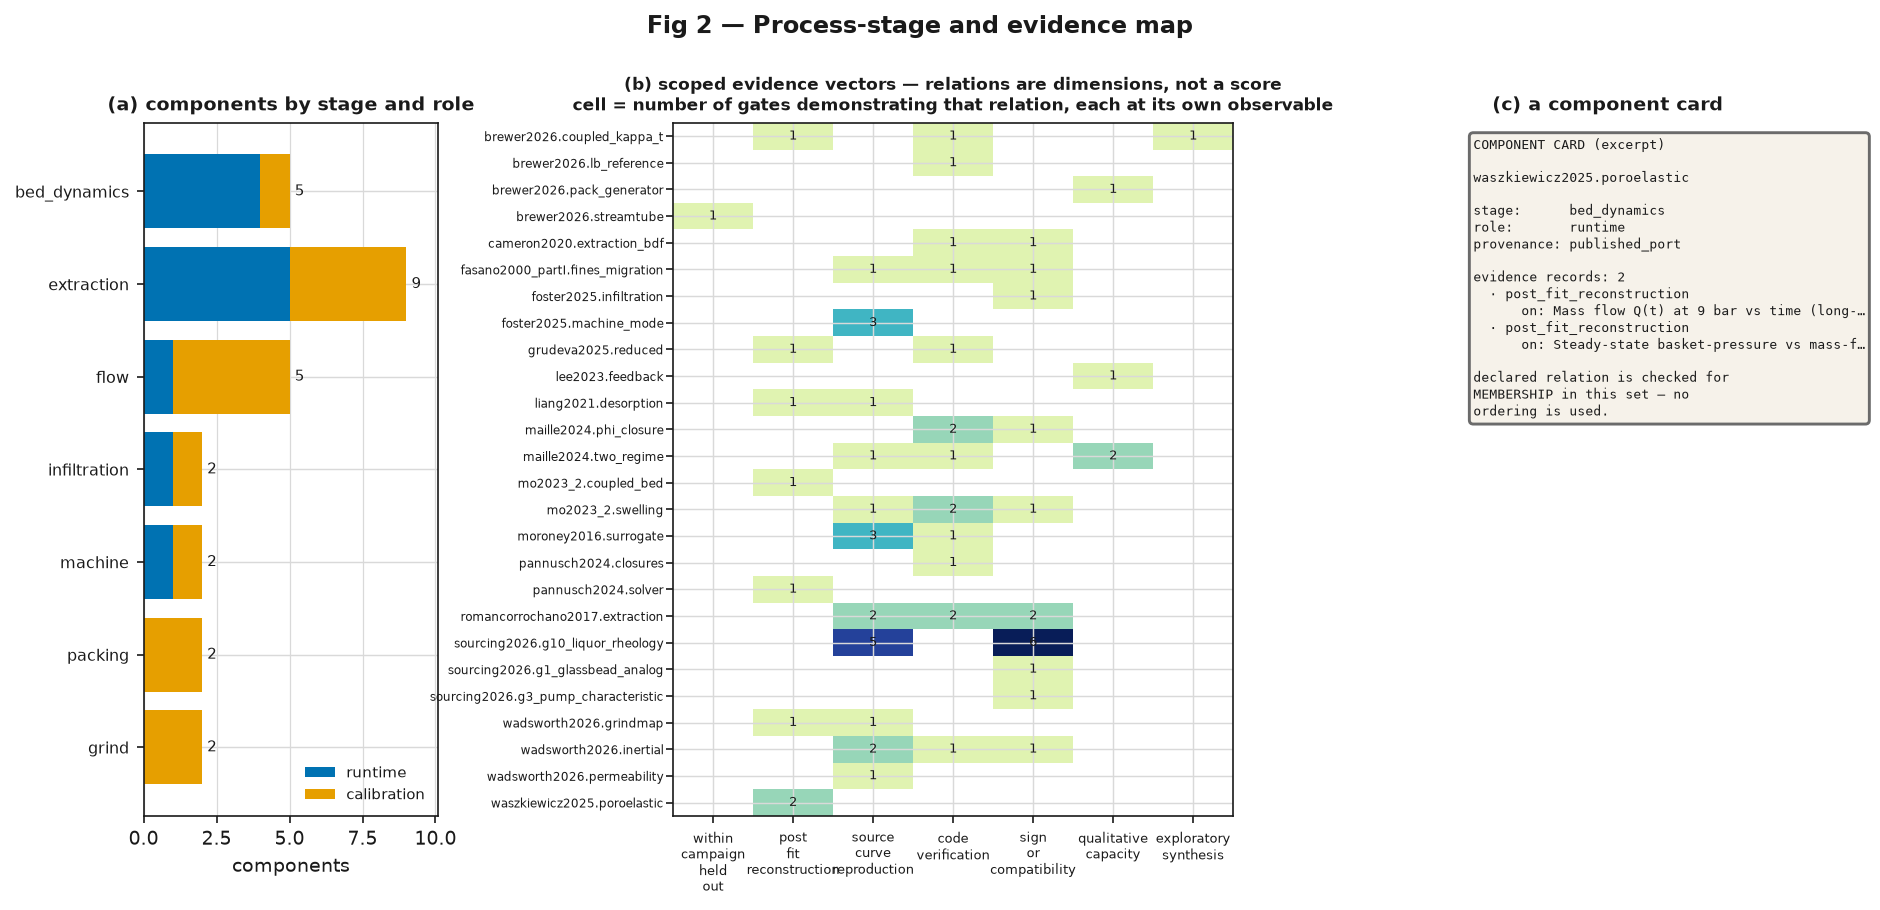
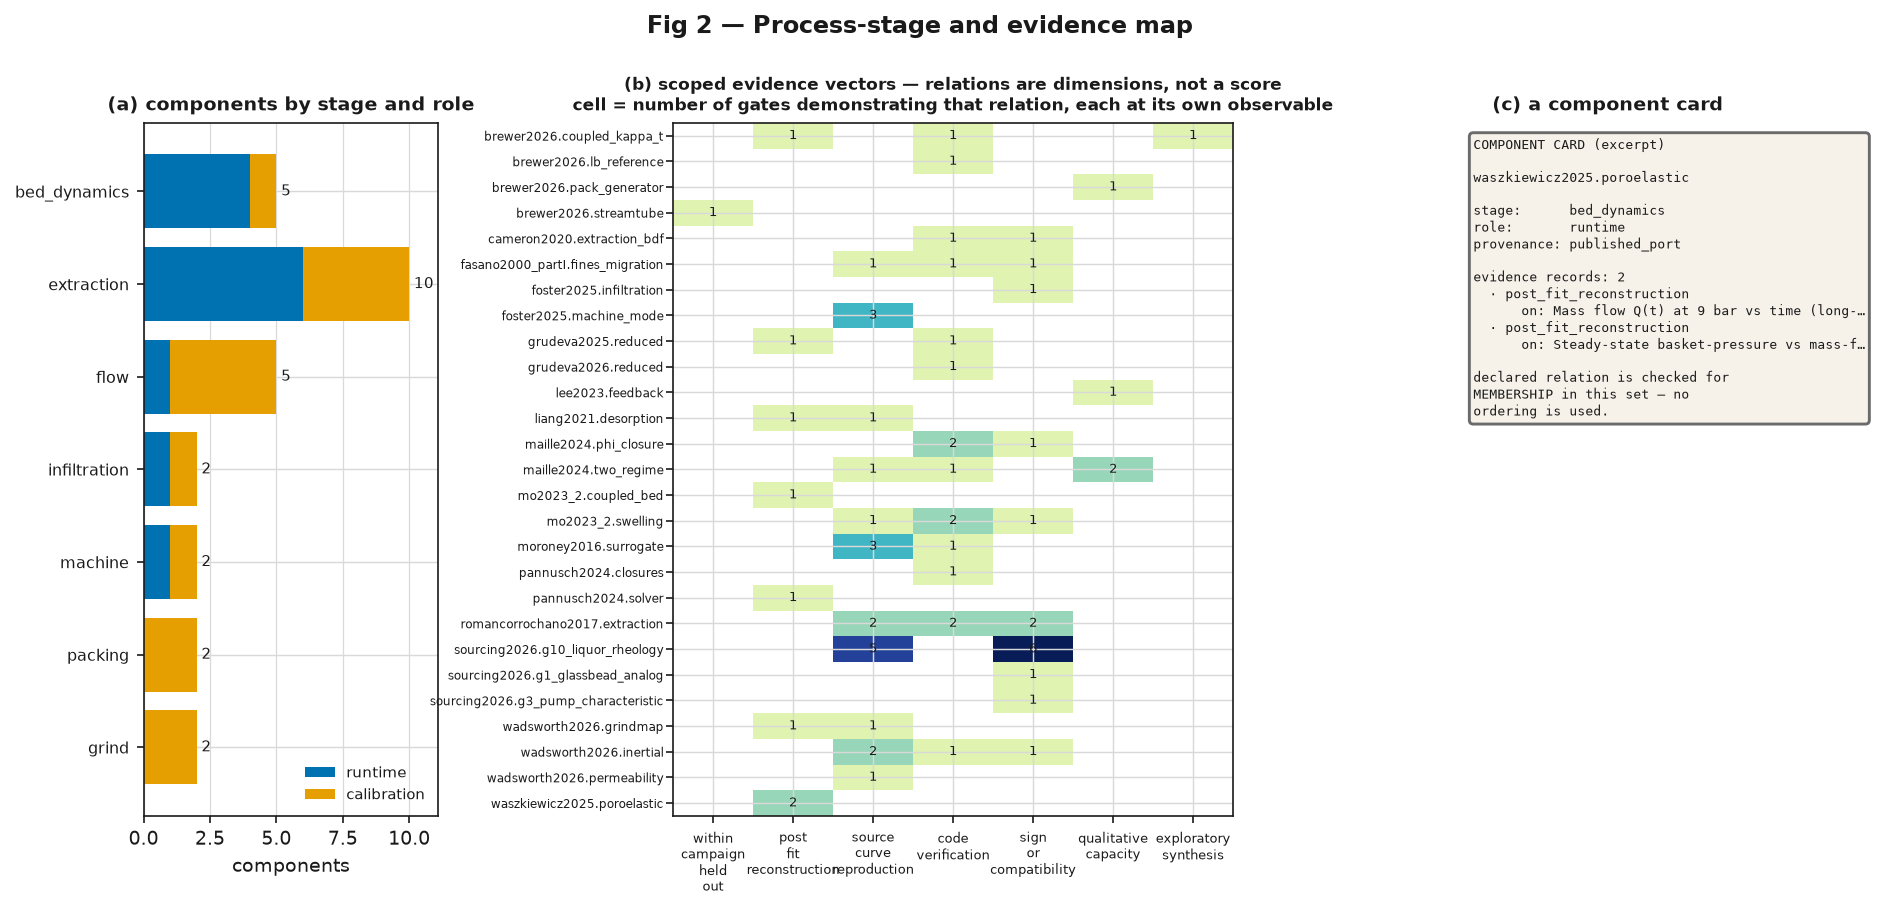
Complete registry catalog exclusions and regenerate current metadata audits

diff --git a/puckworks/product/linked_pull_manifest.py b/puckworks/product/linked_pull_manifest.py
@@ -144,6 +144,10 @@ COMPONENT_DISPOSITIONS: dict = {d.component_id: d for d in (
     # scenario (it prescribes its own flow and needs a fines radius the recipe lacks) and its
     # grain-volume concentration basis has no tested inventory-conserving conversion to the
     # bed-volume basis this chain carries. Wiring one is coupling work, not part of #73.
+    # Catalog exclusion only: the standalone EJAM task authorizes no Relay adapter or edges.
+    _d("grudeva2026.reduced", "other_lenses", _K.ALTERNATIVE_BRANCH, _X.NOT_SELECTED,
+       _R.NOT_EXECUTED, "Native fixed-flow publication case only; no shared-scenario adapter. "
+                        "ZERO Relay execution, adapter calls and edges; outside this component's scope."),
     _d("grudeva2025.reduced", "other_lenses", _K.ALTERNATIVE_BRANCH, _X.NOT_SELECTED,
        _R.NOT_EXECUTED, "Not selected: no compatible relay edge or tested basis conversion exists yet "
                         "(ZERO execution and adapter calls). Rights are documented (#73), so this is a "

diff --git a/tests/test_rights_policy.py b/tests/test_rights_policy.py
@@ -158,7 +158,7 @@ def test_review_backlog_surfaces_the_priority_reviews_without_asserting_clear():
     # nothing that STILL NEEDS review is asserted CLEAR (no manufactured clearance for an unreviewed one)
     assert all(i["governing_state"] != "CLEAR" for i in bl if i["needs_review"])
     assert {i["component_id"] for i in bl if i["governing_state"] == "CLEAR"} == {
-        "brewer2026.lb_reference"}
+        "brewer2026.lb_reference", "grudeva2026.reduced"}
     assert all(i["needs_review"] is False for i in bl if i["governing_state"] == "CLEAR")
     # the data fixture is present as a review item
     assert any(i["component_id"] == "de1_fixtureA.json" for i in bl)

diff --git a/tests/test_linked_pull_manifest.py b/tests/test_linked_pull_manifest.py
@@ -66,3 +66,10 @@ def test_at_least_six_cross_component_handoffs_declared():
         LinkKind.DIRECT_MODEL_OUTPUT, LinkKind.DOCUMENTED_ADAPTER, LinkKind.ILLUSTRATIVE_ASSUMPTION,
         LinkKind.OPTIONAL_SLOW_PATH) and e.source_component_id is not None]
     assert len(handoffs) >= 6
+
+
+def test_standalone_ejam_component_is_excluded_from_relay_execution():
+    from puckworks.product.linked_pull_records import StageStatus
+    cid = "grudeva2026.reduced"
+    assert M.COMPONENT_DISPOSITIONS[cid].intended_status == StageStatus.NOT_SELECTED
+    assert all(e.source_component_id != cid and e.target_component_id != cid for e in M.LINK_EDGES)

diff --git a/tests/test_linked_pull_execution_accounting.py b/tests/test_linked_pull_execution_accounting.py
@@ -28,6 +28,8 @@ EXPECTED_FAST_NOT_SELECTED = frozenset({
     # grudeva2025.reduced moved here on 2026-08-14 when its rights block was resolved by documented
     # permission (#73). Its ZERO-call accounting is unchanged; only the recorded reason is.
     "grudeva2025.reduced",
+    # New standalone component is explicitly excluded; executions and handoffs above stay frozen.
+    "grudeva2026.reduced",
 })
 EXPECTED_FAST_REFERENCE_ONLY = frozenset({
     "sourcing2026.g3_pump_characteristic", "sourcing2026.g1_glassbead_analog", "lee2023.feedback",

diff --git a/tests/test_rights_lb_reference.py b/tests/test_rights_lb_reference.py
@@ -63,7 +63,7 @@ def test_unrelated_records_are_unchanged():
     reviewed = {r.component_id for r in rights.all_rights()
                 if any(s != "NOT_REVIEWED" for s in
                        (r.code_rights_state, r.data_rights_state, r.output_redistribution_state))}
-    assert reviewed == {LB, "grudeva2025.reduced", "cameron2020.extraction_bdf",
+    assert reviewed == {LB, "grudeva2025.reduced", "grudeva2026.reduced", "cameron2020.extraction_bdf",
                         "wadsworth2026.permeability", "foster2025.infiltration"}
 
 

diff --git a/docs/planning/STATE_OF_TRUTH.md b/docs/planning/STATE_OF_TRUTH.md
@@ -10,7 +10,7 @@ Generated from `docs/status/current.json` (the single machine-readable status so
 |---|---|---|---|---|---|---|
 | guided-espresso-pull | Guided Espresso Pull — v0.3.0 published; awaiting signed-out human Colab acceptance | product | P2 | maintainer | One signed-out human Guided Espresso Pull Colab run against the v0.3.0 wheel (sha256 4a88931fc0bbc069365242fc5e3ef4d226da9225c80384b6d013028e4b7a3ec0): hash verified before install, site-packages import of 0.3.0, domain report, full stage sequence, unsupported wetting/first-drip, prescribed pressure, recorded-only temperature, figures + exports, GUIDED_PULL_COMPLETE, warning retained un-clamped. | v0.3.0 PUBLISHED and ACTIVATED: release https://github.com/trbrewer/puckworks/releases/tag/v0.3.0 (source c5ab770); activation PR #52 merged to main 9c3fa54; deterministic reference output, authoritative traces agree with final observables, unsupported states labelled not fabricated, installed-wheel report + hermetic and live guided notebook pass, no private data packaged. Only the human signed-out acceptance remains before closing #48. |
 | guided-pull-laboratory | PV-19B: Guided Pull Laboratory — compatible-model lenses + full registry exposure | product | P1 | maintainer | Review another genuinely low-risk first-party synthetic reference (e.g. assess brewer2026.pack_generator under a STRICTER review, since its parameters/fixtures may draw on Cameron/Wadsworth material and are not auto-cleared by first-party source code), OR await an affirmative rights decision for Cameron code+outputs before adding another common-scenario lens. (The Grudeva half of this gate CLOSED 2026-08-14: the upstream author gave direct written permission covering code and data, so grudeva2025.reduced is PERMISSION_DOCUMENTED (#73). That removed a RIGHTS blocker only -- it added no adapter and no comparability, so it does NOT supply a second common-scenario lens.) Do NOT claim all models are comparable; public execution stays per-component and affirmative-only. | Core + contract hardening landed (development 0.4.0.dev0). puckworks/product/lab.py: exact scenario identity + override provenance (typed ScenarioRequest/ScenarioExecution; guided_v1 runs no longer mislabelled pv19_named); comparison schema v3; separated scientific-payload vs full-artifact integrity hashes (downloadable artifact carries source_commit/package_version/workflow_run_id/wheel_sha256, supplied explicitly - no git subprocess in the producer); correct observable roles (prescribed/derived/simulated/unsupported/diagnostic); explicit 25-component capability/rights matrix (grudeva2025.reduced RIGHTS_BLOCKED pending #73); honest reference-suite coverage (executed vs runner-not-implemented); real scientific trace plots in Streamlit + Actions batch (required figure) + hash manifest. ONE executed common-scenario lens (cameron2020.extraction_bdf via simulate_pull; no equation duplication). Streamlit app verified booting locally (/_stcore/health 200). Not a validated digital twin; no evidence upgrade. FOUR genuinely-executed native reference runners now ship via puckworks/product/lab_runners.py, each reusing gate callables (no equation duplication), failure-isolated: waszkiewicz static refit, wadsworth permeability collapse, foster infiltration first-drip bracket (interactive-fast), and brewer2026.lb_reference (batch-only) — the LB plane-channel code-verification runner (simulated lattice permeability vs the exact plane-Poiseuille k=h^2/12; gate_lb_channel owns the 0.5% band via a shared channel_verification() helper; err_pct 0.052). The repository's FIRST affirmative outward rights clearance and FIRST bounded public-artifact path: brewer2026.lb_reference is rights code CLEAR / data NOT_APPLICABLE / output CLEAR (first-party in-repo code, synthetic input, analytic reference; docs/rights_review_notes.md), so a selected-references-only PUBLIC_ARTIFACT request for exactly that runner passes preflight and runs one native producer (0 common-scenario producers; artifact carries the cleared preflight record + execution context + deterministic scientific hash). NOT a generic bypass: the default/broad public batch selects the NOT_REVIEWED Cameron lens and still blocks before any producer; a mixed LB+unreviewed request blocks whole; the clearance never propagates; Grudeva stays RIGHTS_BLOCKED in every context (#73). This is numerical code verification, NOT coffee/espresso validation. A demonstrated second common-scenario adapter and affirmative Cameron/Grudeva reviews remain open (#70/#73). ACCESSIBILITY (#43): one rights-safe execution facade (puckworks.product.lab_service.execute_lab_request; explicit context, preflight before any producer, typed blocked result with no science) is consumed by the batch, the Colab notebook, and both Streamlit apps; a producer-free Explorer (puckworks.product.lab_explorer.explorer_catalog) exposes the full registry with zero execution; a form-driven novice Colab (notebooks/guided_pull_laboratory_colab.ipynb, one Run button, LOCAL_PRIVATE, commit-pinned dev preview, hermetic smoke asserts GUIDED_PULL_LAB_COMPLETE); and a public/local Streamlit split (apps/lab_public_app.py fixed to PUBLIC_ARTIFACT in code + apps/lab_app.py LOCAL_PRIVATE) with a producer-free Model library, cleared-only Component self-checks, and a disabled reference-shot pending Cameron's review. Streamlit-Cloud deploy manifest (requirements.txt) + docs/DEPLOYMENT.md; codespaces-ci health-smokes both apps. No public URL advertised until a signed-out human verifies it; no rights widened. FULL LABORATORY TOUR (#43/#70): puckworks.product.lab_tour adds a versioned FROZEN manifest (full_laboratory_tour_v1) that resolves every registered component to exactly one primary route (COMMON_SCENARIO/NATIVE_REFERENCE/SCIENTIFIC_CHECK/OPTIONAL_DEPENDENCY/RIGHTS_BLOCKED/NO_EXECUTION_PATH) with a coverage verifier (verify_tour_manifest); execute_laboratory_tour runs each route through lab_service (preflight before producer) → one stage-grouped TourComponentResult per component with deterministic hashes. Today resolves all 25 and executes 23 (1 common + 4 native + 18 rights-filtered gate checks via gate_runner); grudeva2025.reduced RIGHTS_BLOCKED with ZERO producer/gate calls (#73); brewer2026.lb_taichi optional-unavailable. No averaging/ranking/overlay (each component comparable only to itself); public context runs only affirmatively-cleared components. Colab default is the Full Laboratory Tour (four modes, pre-run coverage preview, stage-grouped plain-language badge cards); hermetic notebook smoke resolves 25 / executes 23. PR2 (rights-aware component-check API) and PR3 (UX polish) follow. |
-| model-grudeva2026-reduced-001 | Independent fixed-flow Grudeva EJAM reduced solver and native reference runner | model-component | P1 | maintainer | Exact-head independent review and draft PR owner disposition; Figure 3/4 reproduction failed, Figure 5 reference incomplete; no successor | docs/analysis/model_grudeva2026_reduced_001/RESULTS.json; standalone numerical verification only; PHYSICAL_VALIDATION=NOT_ESTABLISHED |
+| model-grudeva2026-reduced-001 | Independent fixed-flow Grudeva EJAM reduced solver and native reference runner | model-component | P1 | maintainer | Draft PR owner disposition; exact-head review receipt in PR; Figure 3/4 reproduction failed, Figure 5 reference incomplete; no successor | docs/analysis/model_grudeva2026_reduced_001/RESULTS.json; standalone numerical verification only; PHYSICAL_VALIDATION=NOT_ESTABLISHED |
 
 ## Blocked
 

diff --git a/README.md b/README.md
@@ -85,16 +85,15 @@ throughout.
 | Puck change | How do swelling, compaction, fines movement, and dissolution change resistance mid-shot? |
 | Extraction | How do soluble compounds leave the particles and travel out with the liquid? |
 
-**Library versus Guided Pull.** Puckworks contains many models that examine different stages or offer
-competing explanations. It does **not** fuse them into one consensus simulation. The runnable *Guided
-Pull* executes one coherent primary model chain (currently the `cameron2020.extraction_bdf` extraction
-model, which internally spans grind → flow → extraction → cup); every other model is available
-separately — as an alternative model, a calibration or comparison relationship, a pore-scale reference
-solver, an exploratory synthesis, or a source-data constraint. The roles below say which is which.
+**Library versus Guided Pull.** The library contains separate models of brewing stages.
+Guided Pull runs the Cameron extraction chain from grind to cup. Other components provide
+alternative models, calibration relationships, reference solvers or exploratory mechanisms;
+they are not fused into a consensus simulation.
 
 <!-- puckworks-model-map:start -->
 
-**27 registered models**, in one table so the columns line up, ordered by the stage they address. Names are the exact identifiers used in the code; each links to its model card (the source of truth for that model's physics, assumptions, and limits). "Runs in Guided Pull" marks the one model chain the public product executes.
+**28 registered models**, ordered by process stage. Identifiers link to cards with assumptions
+and limits. "Runs in Guided Pull" identifies the public model chain.
 
 | Stage | Model module | Role | What physics it represents |
 |---|---|---|---|
@@ -364,7 +363,7 @@ Published sources and cards are listed below.
 5. Ellero, M.; Navarini, L. "Simulation of espresso coffee extraction using smoothed particle hydrodynamics." *Proc. PARTICLES 2019* (2019): 68–79. No stable external link is recorded in the model card. Related cards: [ellero2019](docs/cards/ellero2019.md).
 6. Fasano, A.; Talamucci, F.; Petracco, M. "The espresso coffee problem." In *Complex Flows in Industrial Processes* (A. Fasano, ed.), 241–280. Springer, 2000. No DOI is recorded in the model card. Related cards: [fasano2000_partI](docs/cards/fasano2000_partI.md).
 7. Foster, J.; Lee, W.; Moroney, K.; Prjamkov, D.; Salamon, M.; Smith, A.; Petrassem-de-Sousa, J.; Vynnycky, M. "Dynamics of liquid infiltration into an espresso bed using time-resolved micro-computed tomography: insights from experiment and modeling." *Physics of Fluids* 37 (2025): 013383. [https://doi.org/10.1063/5.0245167](https://doi.org/10.1063/5.0245167). Related cards: [foster2025](docs/cards/foster2025.md), [foster2025_2](docs/cards/foster2025_2.md).
-8. Grudeva, Y. "Espresso brewing: mathematical modelling and experiment." PhD thesis, University of Portsmouth, 2023 (no DOI). And: Grudeva, Y.; Moroney, K.; Foster, J. "A multiscale model for espresso brewing: asymptotic analysis and numerical simulation." *European Journal of Applied Mathematics* 37 (2026): 496–519. [https://doi.org/10.1017/S095679252500018X](https://doi.org/10.1017/S095679252500018X). Related cards: [grudeva2025](docs/cards/grudeva2025.md).
+8. Grudeva, Y. "Espresso brewing: mathematical modelling and experiment." PhD thesis, University of Portsmouth, 2023 (no DOI). And: Grudeva, Y.; Moroney, K.; Foster, J. "A multiscale model for espresso brewing: asymptotic analysis and numerical simulation." *European Journal of Applied Mathematics* 37 (2026): 496–519. [https://doi.org/10.1017/S095679252500018X](https://doi.org/10.1017/S095679252500018X). Related cards: [grudeva2025](docs/cards/grudeva2025.md), [grudeva2026_2](docs/cards/grudeva2026_2.md).
 9. Hargarten, V. B.; Kuhn, M.; Briesen, H. "Swelling properties of roasted coffee particles." *Journal of the Science of Food and Agriculture* 100(11) (2020). [https://doi.org/10.1002/jsfa.10440](https://doi.org/10.1002/jsfa.10440). Related cards: [hargarten2020](docs/cards/hargarten2020.md).
 10. Khomyakov, A. P.; Mordanov, S. V.; Khomyakova, T. V. "The experimental data on the density, viscosity, and boiling temperature of the coffee extract." *IOP Conf. Series: Earth and Environmental Science* 548 (2020): 022040. [https://doi.org/10.1088/1755-1315/548/2/022040](https://doi.org/10.1088/1755-1315/548/2/022040). Related cards: [khomyakov2020](docs/cards/khomyakov2020.md).
 11. Lee, W.; Smith, A.; Arshad, S. "Uneven extraction in coffee brewing." *Physics of Fluids* (2023). The model card records the DOI as [https://doi.org/10.1063/5.0138998](https://doi.org/10.1063/5.0138998) but flags the volume and DOI as unverified. Related cards: [lee2023](docs/cards/lee2023.md).

diff --git a/docs/CLAIM_BINDING_AUDIT.md b/docs/CLAIM_BINDING_AUDIT.md
@@ -2,7 +2,7 @@
 
 <!-- GENERATED by tools/claim_binding_audit.py. Do not edit by hand: run --write. -->
 
-**Source commit:** `baa707d65a01`
+**Source commit:** `adee275b419a`
 **Generated by:** `python tools/claim_binding_audit.py --write`
 **Inputs:** the three numeral audits (`puckworks.paper_a.claim_coverage`,
 `puckworks.paper_b2.claim_coverage`, `puckworks.paper3.claim_coverage`) and Paper 1's slow-lane
@@ -20,8 +20,8 @@ That is not the same as bound.
 |---|---:|---:|---:|---:|---:|
 | Paper 1 | 729 | 193 | **536** | 230 (42.9 %) | **306 (57.1 %)** |
 | Paper B2 | 496 | 74 | **422** | 195 (46.2 %) | **227 (53.8 %)** |
-| Paper 3 | 384 | 178 | **206** | 139 (67.5 %) | **67 (32.5 %)** |
-| **Total** | **1609** | **445** | **1164** | **564 (48.5 %)** | **600 (51.5 %)** |
+| Paper 3 | 383 | 178 | **205** | 137 (66.8 %) | **68 (33.2 %)** |
+| **Total** | **1608** | **445** | **1163** | **562 (48.3 %)** | **601 (51.7 %)** |
 
 *Structural* = section, table, figure and equation numbers, years, citation markers. Not claims;
 correctly excluded.
@@ -90,7 +90,7 @@ need *provenance*, not recomputation: a citation to the record they came from.
 
 ## Why Paper 3 leads Paper 1
 
-Paper 3 is at 67.5 %;
+Paper 3 is at 66.8 %;
 Paper 1 at 42.9 %. The difference is not diligence — it is
 architecture. Paper 3 **splices generated blocks** from producers between explicit markers. Those
 blocks have never drifted, in any round. Where Paper 3 drifted (round four's Appendix A), it was in
@@ -105,7 +105,7 @@ supplies the explanation for every occurrence of that token. A component count o
 once reported as accounted with the explanation *"draft date (25 July 2026)"* — the right
 disposition class attached to an unrelated fact.
 
-So the 564 verified figure is trustworthy: those resolve through a producer, archive or
+So the 562 verified figure is trustworthy: those resolve through a producer, archive or
 constant path. The "explained" figure is softer than it looks — some of those explanations do not
 describe the number they are attached to.
 
@@ -145,7 +145,7 @@ mechanism by which this document cannot go stale again.
 | `docs/PAPER_A_DRAFT.md` | `184273fdb1597292` |
 | `docs/submission/PAPER_A_JFE_MANUSCRIPT.md` | `c677e5f0d4905c26` |
 | `docs/PAPER_B2_TEMPORAL_DRAFT.md` | `c2fa8e8908702c40` |
-| `docs/PAPER_3_PUCKWORKS_DRAFT.md` | `9ba84170f5805178` |
+| `docs/PAPER_3_PUCKWORKS_DRAFT.md` | `8bbf004ba0f31b8d` |
 | `puckworks/paper_a/claim_coverage.py` | `b8fcd563ceb61794` |
 | `puckworks/paper_a/slow_lane_bindings.py` | `ea0060498cbf422f` |
 | `puckworks/paper_b2/claim_coverage.py` | `2d2228a4d4b01466` |

diff --git a/docs/SPRINTS.md b/docs/SPRINTS.md
@@ -1,7 +1,7 @@
 # docs/SPRINTS.md — development sprints (rev. 1, from ROADMAP rev. 2)
 
 - [x] MODEL-GRUDEVA2026-REDUCED-001: standalone fixed-flow implementation, independent analytical and numerical verification, native reference runner. G2 / NUMERICAL_METHOD_CHANGE; no EWP production change. [Evidence](analysis/model_grudeva2026_reduced_001/RESULTS.md).
-- [ ] #67 publication-reference completion: Figures 3/4 mismatch at fixed source parameters; FIG5_REFERENCE_INCOMPLETE. Exact-head review / draft PR owner disposition pending. PHYSICAL_VALIDATION=NOT_ESTABLISHED; no merge or successor.
+- [ ] #67 publication-reference completion: Figures 3/4 mismatch at fixed source parameters; FIG5_REFERENCE_INCOMPLETE. Draft PR owner disposition pending; exact-head review receipt in PR. PHYSICAL_VALIDATION=NOT_ESTABLISHED; no merge or successor.
 
 - [x] SCI-MD-MASS-STOP-DECISION-001: **FROZEN_C2_STOPPING_DECISION_ADEQUATE_ON_DECLARED_OFFLINE_CONTRACT**. C2/C0/fixed each succeed on 11/11 primary shots; C0 matches C2's zero observed endpoint regret, so no incremental C2 complexity value is established. All four sensitivities, false-feasible severity and abstention reported from exactly one independently approved score. G1 / NO_GOVERNING_PHYSICS_CHANGE; RESEARCH_ONLY / TARGET_EXPOSED / retrospective offline assay-conditioned decision replay on recorded boundaries. [Result](analysis/sci_md_mass_stop_decision_001/RESULT.md). Zero new fits/optimizers/EWP runs; no adoption or automatic successor. PHYSICAL_VALIDATION=NOT_ESTABLISHED.
 

diff --git a/docs/analysis/model_grudeva2026_reduced_001/HANDOFF.md b/docs/analysis/model_grudeva2026_reduced_001/HANDOFF.md
@@ -57,3 +57,22 @@ Required hosted contexts are read from the active repository ruleset:
 Current metadata-only generators were updated for the added registry component and
 fixtures. The new numerical component creates no experimental campaign or measurement
 agenda entry. No shared-scenario adapter or cross-model overlay is enabled.
+
+## Integration closeout
+
+The first complete candidate quick run reported 5507 passes, 33 skips and ten
+integration failures. These concerned explicit catalog exclusion, rights sets,
+README size/count/card references, current Paper 3 registry-figure metadata and
+the current generated claim-binding audit. The owning generators update only
+those current metadata/audit surfaces; earlier numerical bundles remain untouched.
+The Relay catalog now explicitly excludes the new component (`NOT_SELECTED`,
+`NOT_EXECUTED`, zero edges); all twenty existing executions and ten handoffs stay
+unchanged. This supplies no Relay integration or adapter.
+
+All 34 model/Laboratory tests passed. The single independent reviewer accepted
+the numerical implementation at the initial candidate head, independently
+checking a radial finite-volume reference, fixed-position grain memory, the
+small-diffusivity limit and all archived scientific hashes. The same review
+checks the final integration delta and records the final exact head in the PR
+receipt. Scientific source/input hashes are unchanged by these integration fixes;
+those numerical results are reused rather than rerun or restamped.

diff --git a/docs/analysis/model_grudeva2026_reduced_001/RESULTS.md b/docs/analysis/model_grudeva2026_reduced_001/RESULTS.md
@@ -19,7 +19,7 @@ This is neither physical validation nor rejection of the model's physics.
 | Figure 5 | INCOMPLETE: full-model spatial arrays, exact diffusivity coefficient and author observation grid unqualified |
 | Native Laboratory | Implemented: dedicated reference case, source/use preflight, canonical card, no common-scenario adapter; full integration tests recorded in HANDOFF |
 | Regression / hosted QA | See HANDOFF; separate from numerical/reference dispositions |
-| Independent review | Pending exact candidate review; receipt will identify the reviewed PR head |
+| Independent review | See the draft PR final review receipt for exact head and disposition; no self-hash embedded here |
 
 The numerical budgets remain 1e-3 for outlet/event refinement and 1e-6 for
 normalized conservation. The initial uniform-mesh 512/1024-cell trial failed
